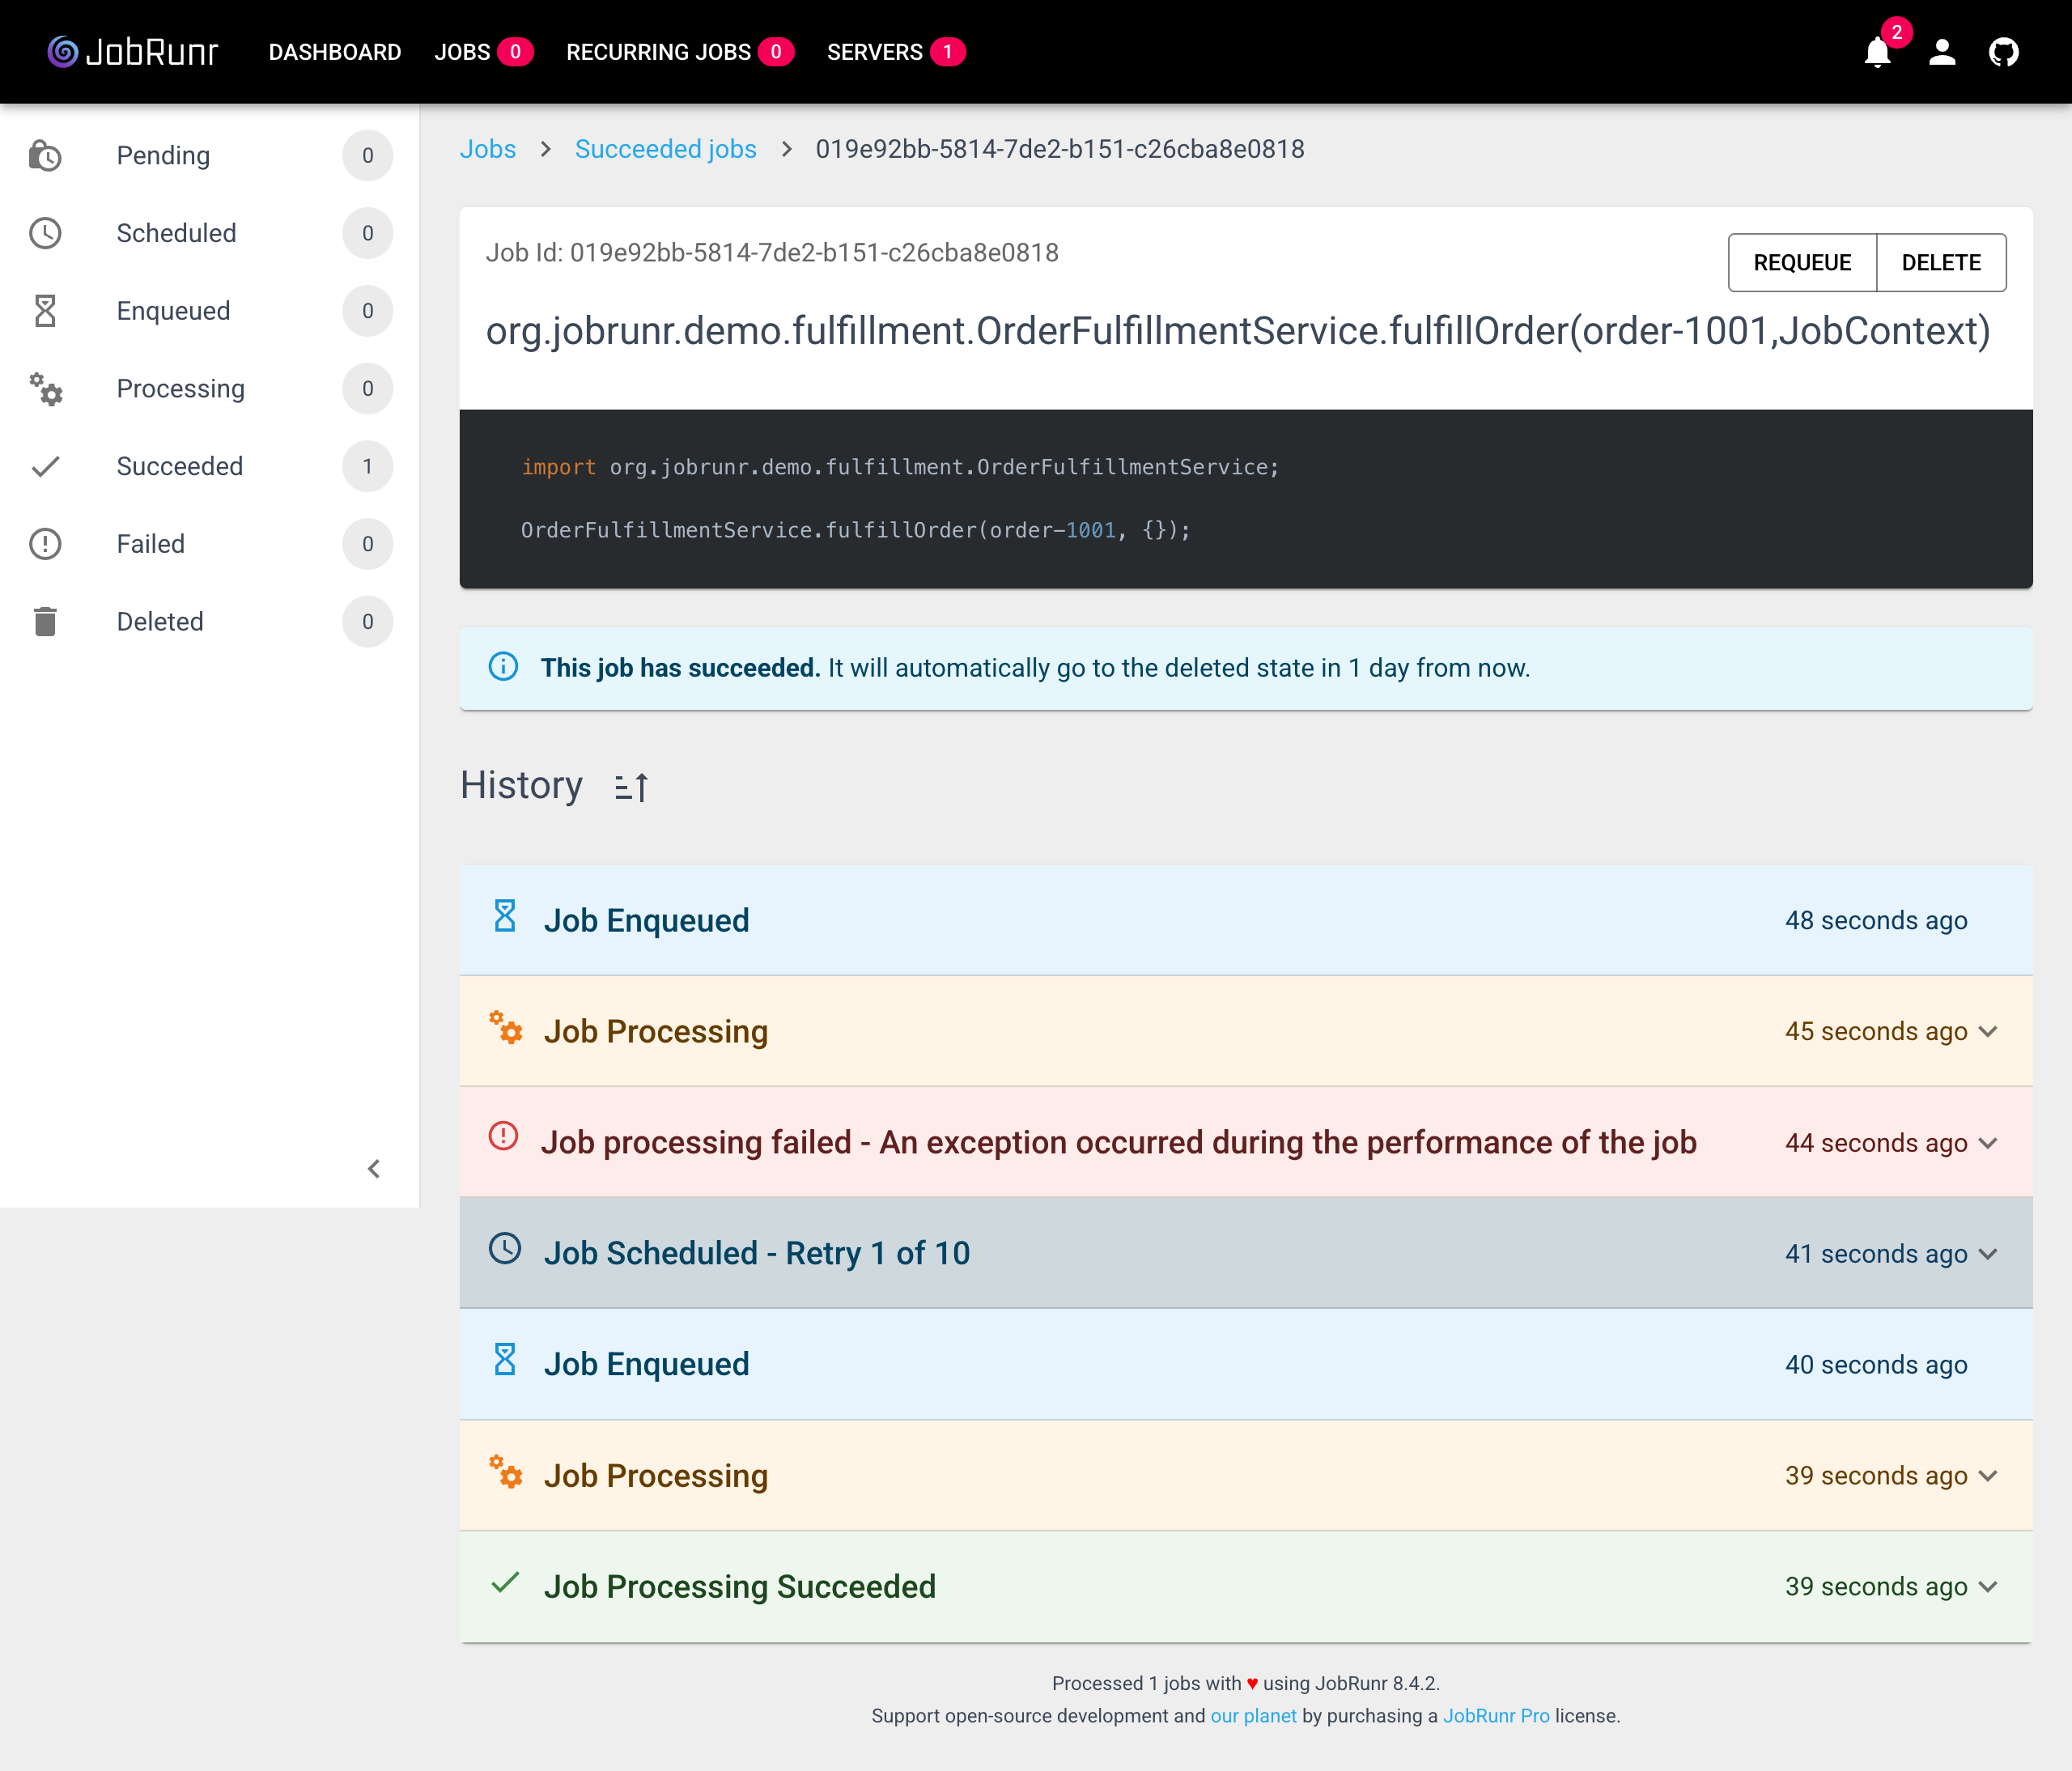
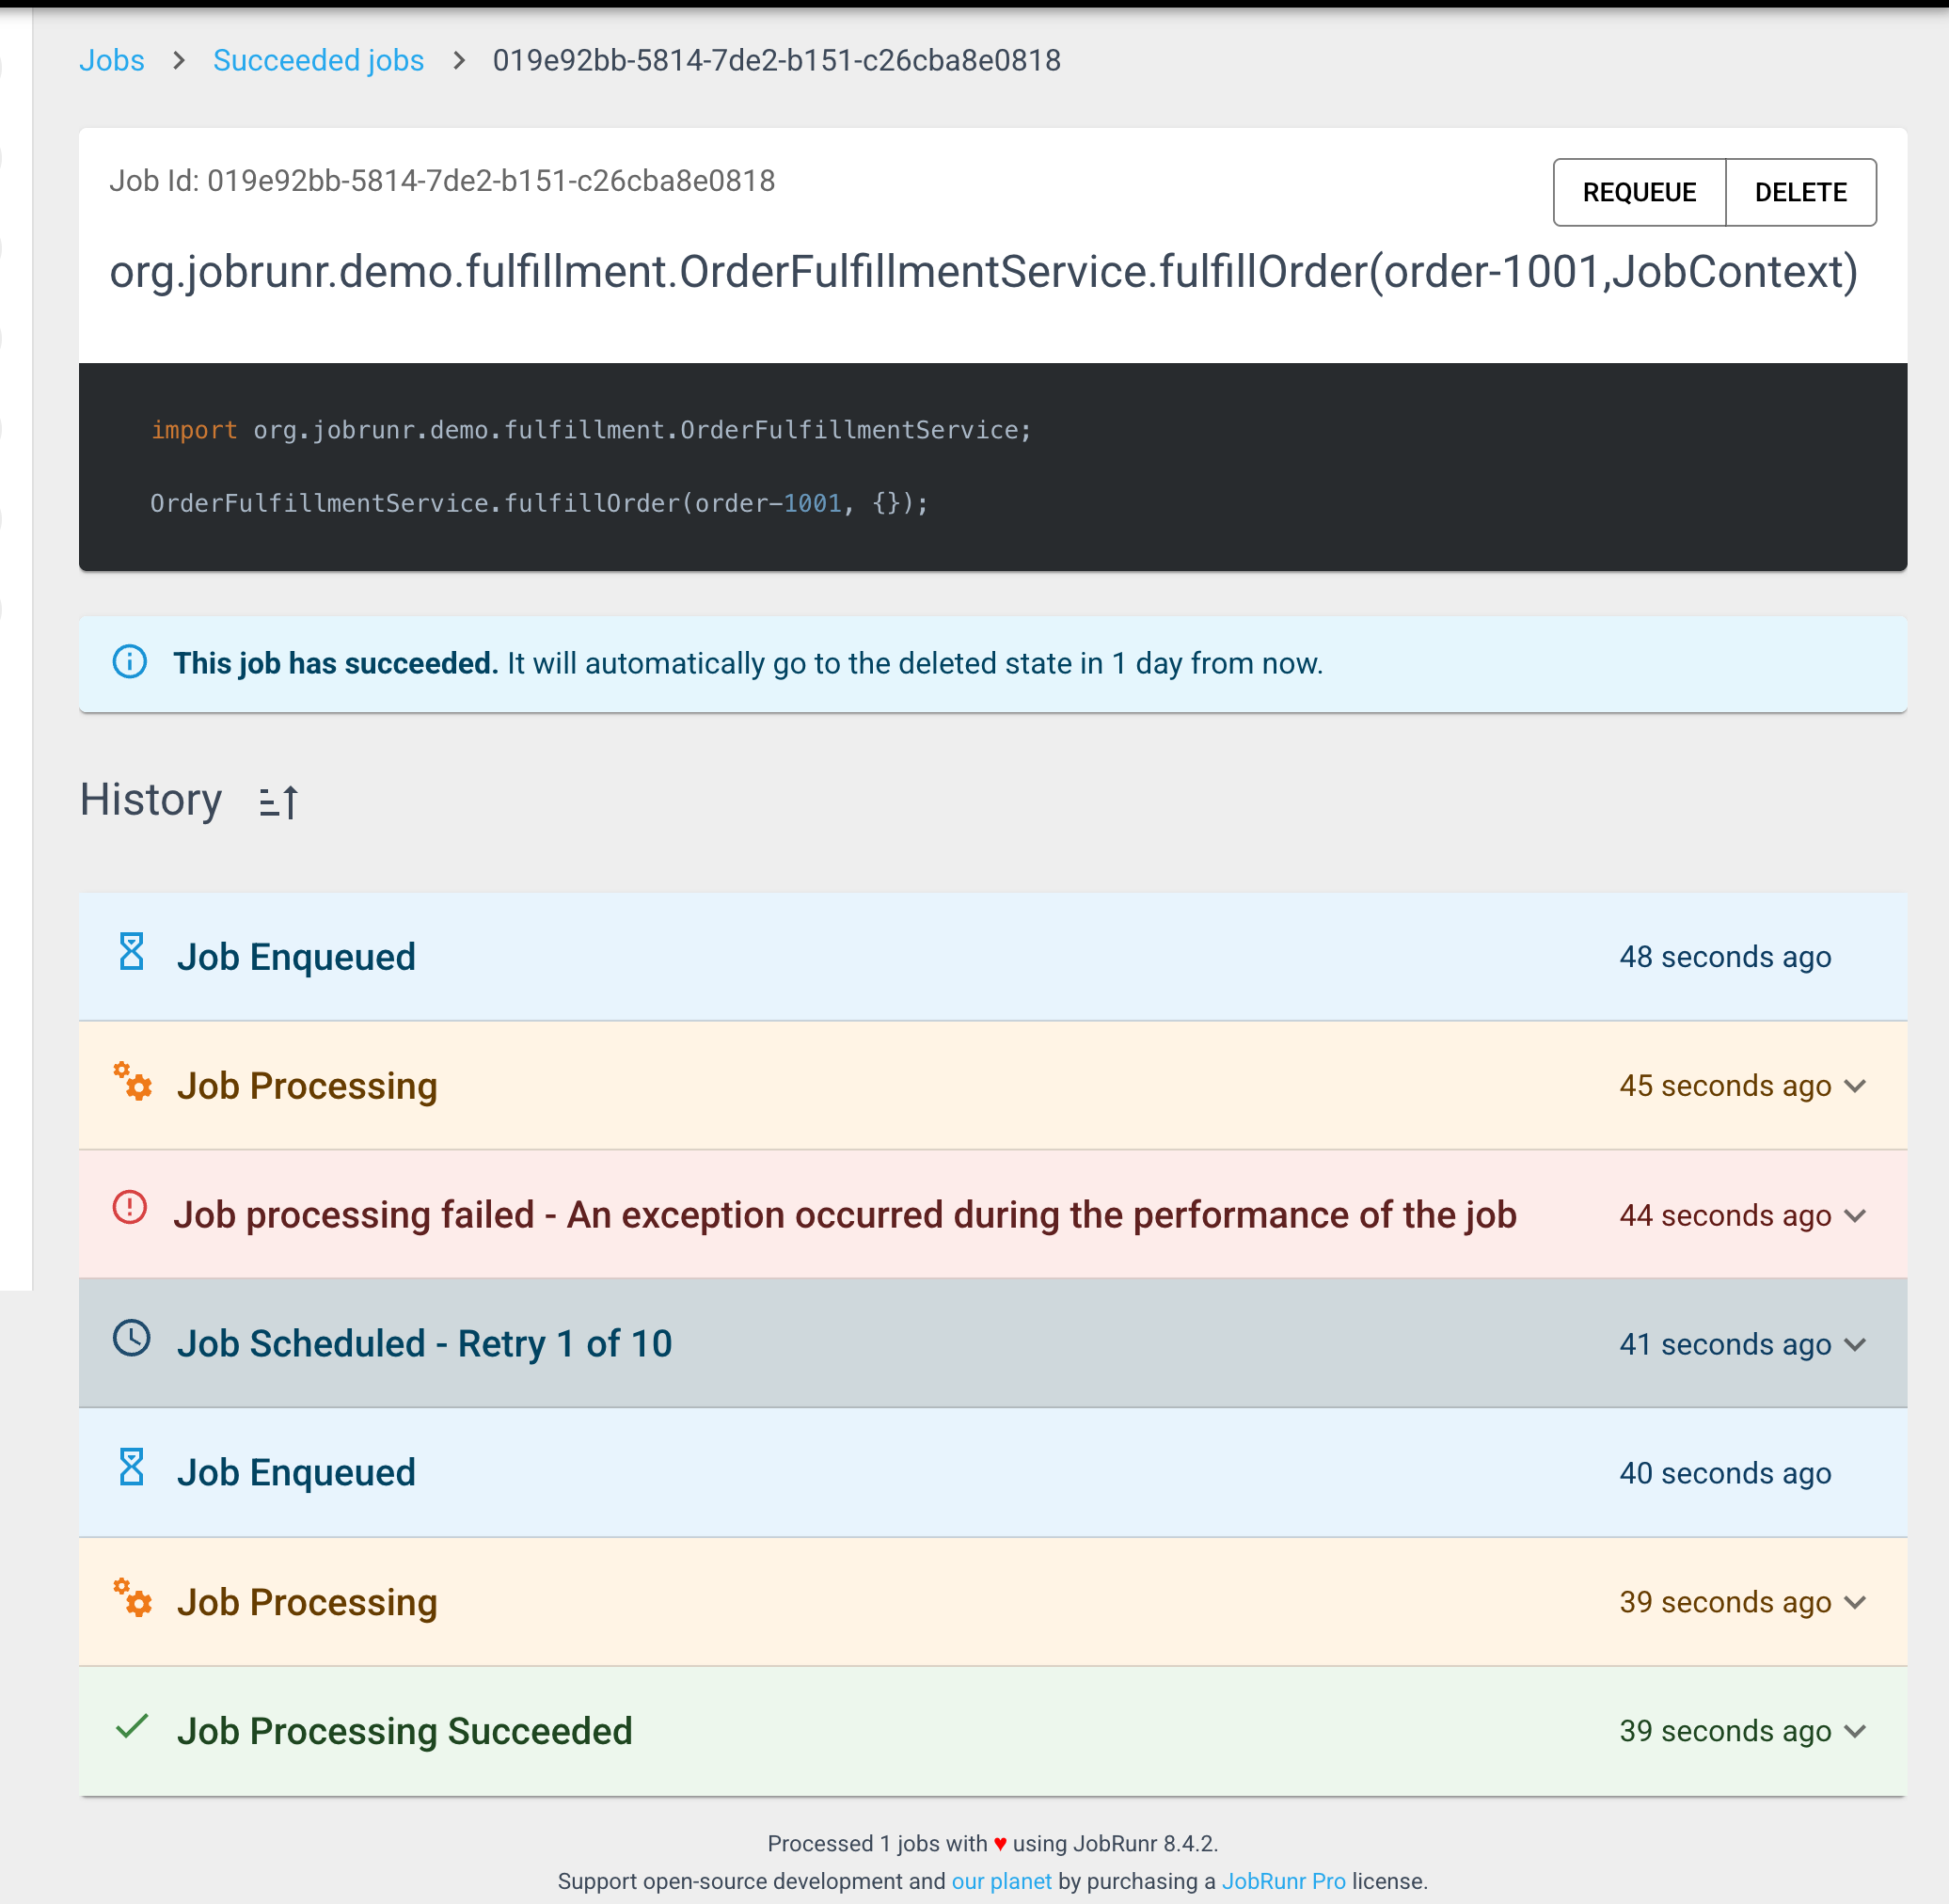
Apply review feedback on durable executions guide: SEO headings, manual-guarding contrast example, alerts, control flow section, cropped screenshots

diff --git a/content/english/guides/advanced/durable-executions.md b/content/english/guides/advanced/durable-executions.md
@@ -37,9 +37,33 @@ public void fulfillOrder(String orderId) {
 
 Now imagine `reserve` throws because the inventory service is briefly unavailable. JobRunr catches the exception, marks the job as failed, and schedules a retry with exponential back-off. That retry calls `fulfillOrder` again from the beginning, so `charge` runs a second time. The customer has now paid twice for one order.
 
-You could try to guard every step with your own "have I done this already?" checks, stored in your own tables. That is a lot of bookkeeping to write and maintain for something every multi-step job needs. Durable executions give you that bookkeeping for free.
+You could try to guard every step with your own "have I done this already?" checks, stored in your own tables. That looks something like this:
 
-## The runStepOnce API
+```java
+public void fulfillOrder(String orderId) {
+    OrderProgress progress = orderProgressRepository.findByOrderId(orderId);
+
+    if (!progress.hasCompleted("charge-payment")) {
+        paymentGateway.charge(orderId);
+        progress.markCompleted("charge-payment");
+        orderProgressRepository.save(progress);
+    }
+    if (!progress.hasCompleted("reserve-inventory")) {
+        inventoryService.reserve(orderId);
+        progress.markCompleted("reserve-inventory");
+        orderProgressRepository.save(progress);
+    }
+    if (!progress.hasCompleted("send-confirmation")) {
+        emailService.sendConfirmation(orderId);
+        progress.markCompleted("send-confirmation");
+        orderProgressRepository.save(progress);
+    }
+}
+```
+
+It works, but now you own an extra table, a repository, and a guard block around every step, and the three lines of business logic are buried in bookkeeping you get to repeat in every multi-step job you write. Durable executions give you that bookkeeping for free.
+
+## Durable execution with JobRunr
 
 `JobContext` exposes two `runStepOnce` methods. The first runs a step with no return value, the second returns a value you can pass to the next step:
 
@@ -69,9 +93,10 @@ public void fulfillOrder(String orderId, JobContext jobContext) {
 
 That is the whole change. The job is now durable. If it fails at `reserve-inventory` and is retried, `charge-payment` is skipped and execution resumes at `reserve-inventory`.
 
+> [!IMPORTANT]
 > The step id is the identity of the step. Keep it stable across deployments and make sure it is unique within the job. If you rename a step id, JobRunr treats it as a brand new step that has never run.
 
-## How it works under the hood
+## How durable execution works under the hood
 
 `runStepOnce` is built on JobRunr's job metadata, which is stored in your database alongside the job. The mechanism is simple and worth understanding:
 
@@ -82,15 +107,16 @@ That is the whole change. The job is now durable. If it fails at `reserve-invent
 
 Because the markers live in the same database as the job, they outlive the process running it. When a step throws, JobRunr saves the job, markers and all, as it moves it to the failed state, so an ordinary retry always resumes precisely from the step that failed.
 
-> There is a subtle difference in *when* the markers are saved for a job that is still running. JobRunr Pro writes the job state to the database the moment a step finishes, so even an abrupt crash (a killed pod, a lost node) resumes from exactly the last completed step. JobRunr OSS saves state on its normal poll interval, like any other job, so a hard crash in the window since the last save can re-run the step that had just finished. Retries on a thrown exception resume precisely in both. Either way, keep each step idempotent.
-
 There is also a helper to query progress yourself:
 
 ```java
 boolean done = jobContext.hasCompletedStep("charge-payment");
 ```
 
-## Watch it resume
+> [!CAUTION]
+> There is a subtle difference in *when* the markers are saved for a job that is still running. JobRunr Pro writes the job state to the database the moment a step finishes, so even an abrupt crash (a killed pod, a lost node) resumes from exactly the last completed step. JobRunr OSS saves state on its normal poll interval, like any other job, so a hard crash in the window since the last save can re-run the step that had just finished. Retries on a thrown exception resume precisely in both. Either way, keep each step idempotent.
+
+## Watch a retried job resume in the dashboard
 
 Let's run the fulfillment job for real and make the inventory step fail on its first attempt. We use `jobContext.logger()` so each step writes a line to the JobRunr dashboard. The log line sits inside the step, so a skipped step produces no line. That makes the resume visible at a glance:
 
@@ -126,7 +152,7 @@ Open the two processing entries and the resume is unmistakable. Attempt 1 logs `
 
 ![](/guides/durable-executions-job-history.png "Expanded job history. The first attempt logs the charge and the reserve before failing. The second attempt resumes at reserve-inventory with no charge line, then sends the confirmation and finishes.")
 
-## Passing values between steps
+## Passing values between steps and control flow
 
 When a step produces something the next step needs, use the `runStepOnce` overload that returns a value. JobRunr stores the result, so on a later run the stored value is replayed instead of recomputing it:
 
@@ -144,6 +170,27 @@ public void fulfillOrder(String orderId, JobContext jobContext) {
 
 On a retry that skips `charge-payment`, the original `chargeId` is returned from the stored result, so the confirmation email still references the correct charge.
 
+Replayed results do more than carry data forward: they also let you make **control flow** decisions that stay consistent across retries. Branch on the result of a step and every attempt takes the same path, because the branch is evaluated against the stored result, not a fresh call:
+
+```java
+public void fulfillOrder(String orderId, JobContext jobContext) {
+    PaymentResult payment = jobContext.runStepOnce("charge-payment",
+            () -> paymentGateway.charge(orderId));
+
+    if (payment.requiresManualReview()) {
+        jobContext.runStepOnce("flag-for-review",
+                () -> reviewService.flagForReview(orderId, payment.chargeId()));
+        return;
+    }
+
+    jobContext.runStepOnce("reserve-inventory", () -> inventoryService.reserve(orderId));
+    jobContext.runStepOnce("send-confirmation",
+            () -> emailService.sendConfirmation(orderId, payment.chargeId()));
+}
+```
+
+If this job fails at `reserve-inventory` and is retried, the `if` runs again, but against the replayed `payment` result, so the retry follows the exact branch the first attempt took. This determinism is what makes branching safe in a durable execution: base your decisions on stored step results, not on values that can change between attempts. Code outside a step re-runs on every attempt, so keep it free of side effects, and if a decision depends on something non-deterministic like the current time or a random draw, wrap that decision in its own `runStepOnce` so the outcome is recorded and replayed too. Jack Vanlightly's [Demystifying Determinism in Durable Execution](https://jack-vanlightly.com/blog/2025/11/24/demystifying-determinism-in-durable-execution) is a great deep dive into why this matters.
+
 ## Steps are exactly-once, but design them to be safe
 
 Durable executions guarantee that a **completed** step is never run again. They do not make the *currently running* step safe on their own. If a step does two things and the job dies between them, the whole step re-runs on the retry, because it was never marked complete.
@@ -154,7 +201,7 @@ A few more things worth knowing:
 
 - **Step ids must be stable and unique.** Reusing an id across two different steps will mark the second one complete before it runs. Renaming an id makes JobRunr think it is a new step.
 - **Retries are configurable.** By default JobRunr retries a failed job up to 10 times with exponential back-off. Durable executions make each of those retries cheap, because only the unfinished work runs.
-- **It is not a workflow engine.** `runStepOnce` makes a single job durable. For fan-out, branching, and coordinating many jobs, look at [job chaining]({{<ref "documentation/pro/job-chaining.md">}}) and [batches]({{<ref "documentation/pro/batches.md">}}) in JobRunr Pro.
+- **It is not a workflow engine.** `runStepOnce` makes a single job with multiple steps durable. For fan-out, branching, and coordinating many jobs, look at [job chaining]({{<ref "documentation/pro/job-chaining.md">}}) and [batches]({{<ref "documentation/pro/batches.md">}}) in JobRunr Pro.
 
 ## When to use durable executions
 